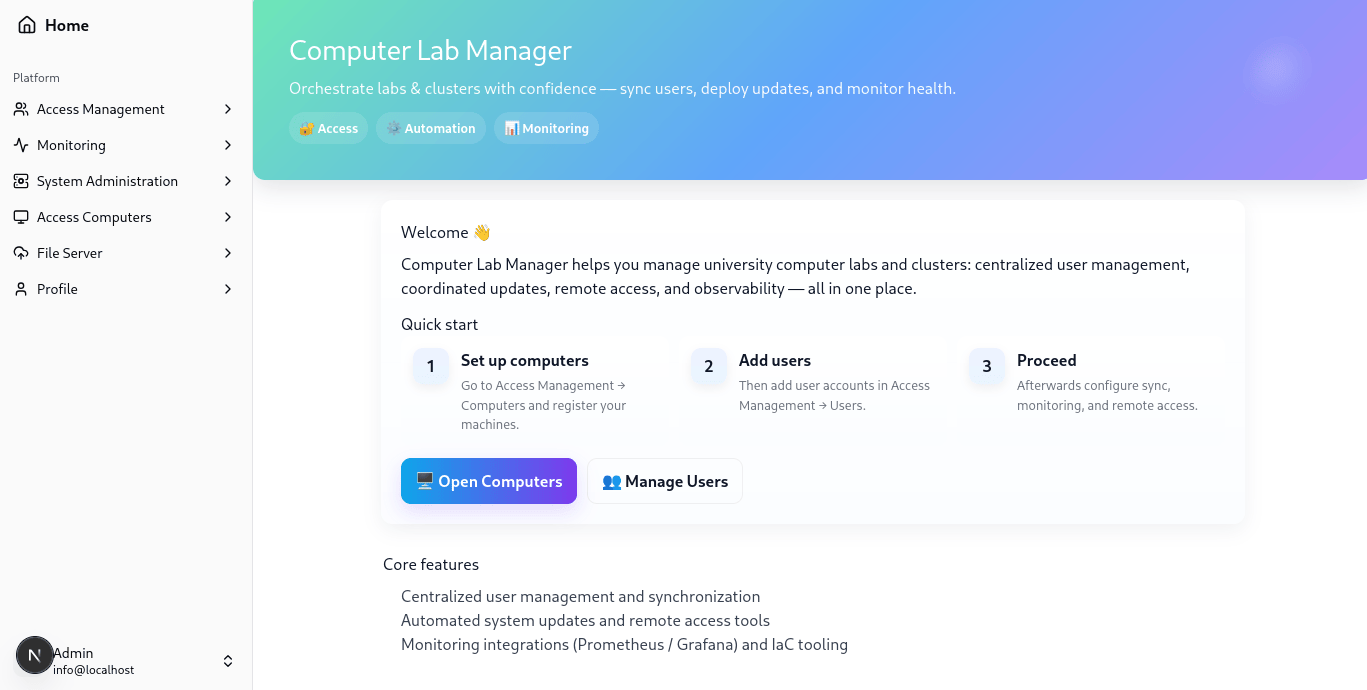
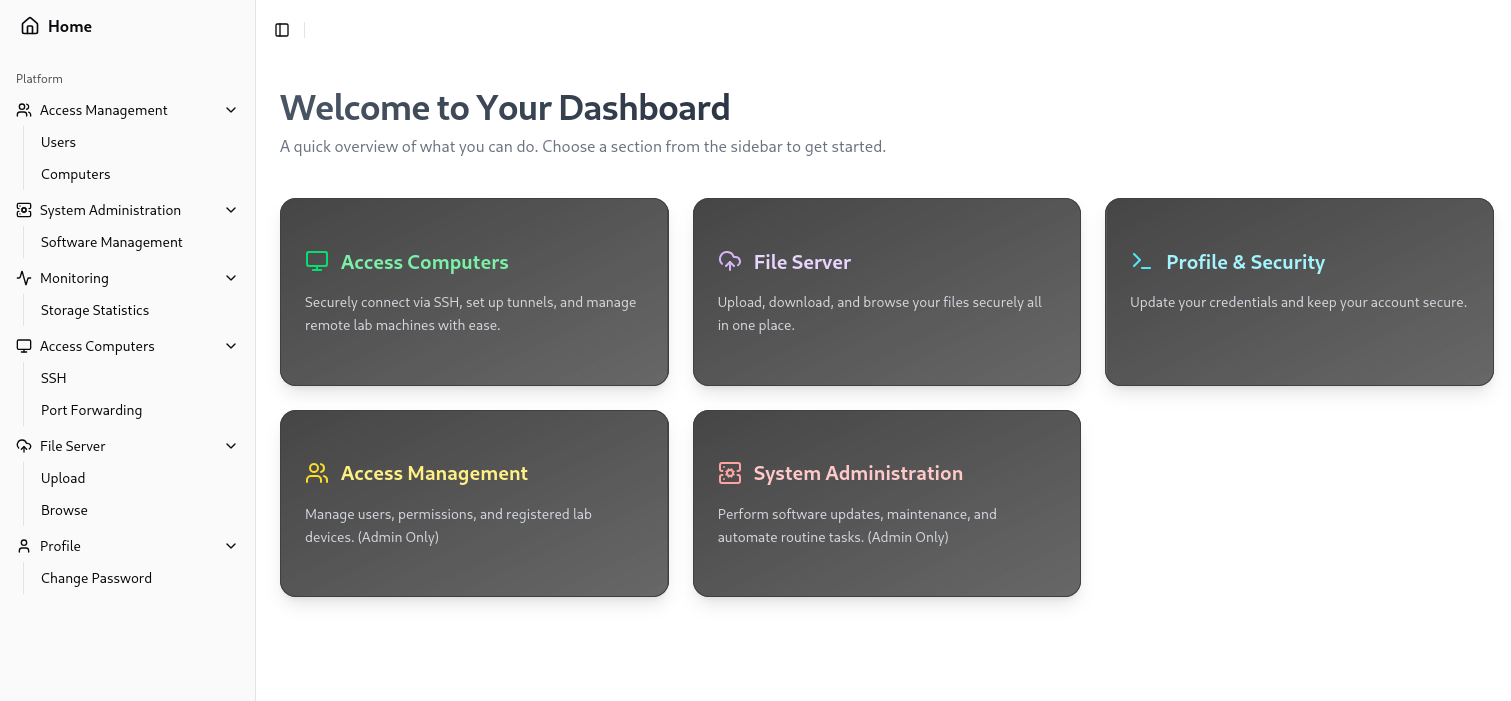
new default dashboard view

diff --git a/src/components/default-dashboard-view.tsx b/src/components/default-dashboard-view.tsx
@@ -1,102 +1,126 @@
 "use client";
 
-import { useHash } from "@/hooks/use-hash";
-import styles from "./default-dashboard-view.module.css";
+import { Card, CardContent } from "@/components/ui/card";
+import { Monitor, CloudUpload, Terminal, Users, ServerCog } from "lucide-react";
+import { motion } from "framer-motion";
 
-export default function DefaultDashboardView() {
-	const hash = useHash();
-	if (hash && hash.length != 0)
-		return null;
+export default function DashboardView() {
+  return (
+    <div className="p-6 space-y-10">
 
-	return (
-		<div className={styles.dlmRoot}>
-				<header className={styles.hero}>
-					<div className={styles.heroContent}>
-					<h1>Computer Lab Manager</h1>
-					<p className={styles.tagline}>
-						Orchestrate labs & clusters with confidence — sync users, deploy updates, and monitor health.
-					</p>
-					<div className={styles.badges}>
-						<span className={styles.badge}>🔐 Access</span>
-						<span className={styles.badge}>⚙ Automation</span>
-						<span className={styles.badge}>📊 Monitoring</span>
-					</div>
-				</div>
-				<div className={styles.heroDecor} aria-hidden />
-			</header>
+      {/* Header */}
+      <motion.div
+        initial={{ opacity: 0, y: -10 }}
+        animate={{ opacity: 1, y: 0 }}
+        transition={{ duration: 0.4 }}
+      >
+        <h1 className="text-4xl font-bold tracking-tight bg-gradient-to-r from-gray-600 to-gray-950 bg-clip-text text-transparent">
+          Welcome to Your Dashboard
+        </h1>
+        <p className="text-gray-500 mt-2 max-w-2xl">
+          A quick overview of what you can do. Choose a section from the sidebar to get started.
+        </p>
+      </motion.div>
 
-			<main className={styles.container}>
-				<section className={styles.introCard}>
-					<h2>Welcome 👋</h2>
-					<p>
-						Computer Lab Manager helps you manage university computer labs and clusters: centralized user
-						management, coordinated updates, remote access, and observability — all in one place.
-					</p>
+      {/* Feature Cards */}
+      <div className="grid grid-cols-1 md:grid-cols-2 xl:grid-cols-3 gap-6">
 
-					<div className={styles.quickStart}>
-						<h3>Quick start</h3>
-						<div className={styles.steps}>
-							<div className={styles.step}>
-								<div className={styles.stepIndex}>1</div>
-								<div>
-									<strong>Set up computers</strong>
-									<p className={styles.muted}>Go to Access Management → Computers and register your machines.</p>
-								</div>
-							</div>
+        {/* Access Computers */}
+        <motion.div
+          initial={{ opacity: 0, y: 20 }}
+          animate={{ opacity: 1, y: 0 }}
+          transition={{ delay: 0.1, duration: 0.4 }}
+        >
+          <Card className="flex flex-col h-full bg-gradient-to-br from-neutral-900/80 to-neutral-800/70 border border-neutral-700 rounded-2xl shadow-lg hover:shadow-xl transition">
+            <CardContent className="p-6 flex flex-col gap-4">
+              <div className="flex items-center gap-3">
+                <Monitor className="w-6 h-6 text-green-400" />
+                <h2 className="text-xl font-semibold text-green-300">Access Computers</h2>
+              </div>
+              <p className="text-gray-300 text-sm leading-relaxed">
+                Securely connect via SSH, set up tunnels, and manage remote lab machines with ease.
+              </p>
+            </CardContent>
+          </Card>
+        </motion.div>
 
-							<div className={styles.step}>
-								<div className={styles.stepIndex}>2</div>
-								<div>
-									<strong>Add users</strong>
-									<p className={styles.muted}>Then add user accounts in Access Management → Users.</p>
-								</div>
-							</div>
+        {/* File Server */}
+        <motion.div
+          initial={{ opacity: 0, y: 20 }}
+          animate={{ opacity: 1, y: 0 }}
+          transition={{ delay: 0.15, duration: 0.4 }}
+        >
+          <Card className="flex flex-col h-full bg-gradient-to-br from-neutral-900/80 to-neutral-800/70 border border-neutral-700 rounded-2xl shadow-lg hover:shadow-xl transition">
+            <CardContent className="p-6 flex flex-col gap-4">
+              <div className="flex items-center gap-3">
+                <CloudUpload className="w-6 h-6 text-purple-300" />
+                <h2 className="text-xl font-semibold text-purple-200">File Server</h2>
+              </div>
+              <p className="text-gray-300 text-sm leading-relaxed">
+                Upload, download, and browse your files securely all in one place.
+              </p>
+            </CardContent>
+          </Card>
+        </motion.div>
 
-							<div className={styles.step}>
-								<div className={styles.stepIndex}>3</div>
-								<div>
-									<strong>Proceed</strong>
-									<p className={styles.muted}>Afterwards configure sync, monitoring, and remote access.</p>
-								</div>
-							</div>
-						</div>
+        {/* Profile Settings */}
+        <motion.div
+          initial={{ opacity: 0, y: 20 }}
+          animate={{ opacity: 1, y: 0 }}
+          transition={{ delay: 0.2, duration: 0.4 }}
+        >
+          <Card className="flex flex-col h-full bg-gradient-to-br from-neutral-900/80 to-neutral-800/70 border border-neutral-700 rounded-2xl shadow-lg hover:shadow-xl transition">
+            <CardContent className="p-6 flex flex-col gap-4">
+              <div className="flex items-center gap-3">
+                <Terminal className="w-6 h-6 text-cyan-300" />
+                <h2 className="text-xl font-semibold text-cyan-200">Profile & Security</h2>
+              </div>
+              <p className="text-gray-300 text-sm leading-relaxed">
+                Update your credentials and keep your account secure.
+              </p>
+            </CardContent>
+          </Card>
+        </motion.div>
 
-						<div className={styles.actions}>
-							{/* Primary admin actions */}
-							<button
-								className={`${styles.btn} ${styles.btnPrimary}`}
-								onClick={() => {
-									// Admin computers page from adminNavMain
-									window.location.hash = "#admin-computers";
-								}}
-								aria-label="Open Computers"
-							>
-								🖥 Open Computers
-							</button>
+        {/* Admin: Access Management */}
+        <motion.div
+          initial={{ opacity: 0, y: 20 }}
+          animate={{ opacity: 1, y: 0 }}
+          transition={{ delay: 0.25, duration: 0.4 }}
+        >
+          <Card className="flex flex-col h-full bg-gradient-to-br from-neutral-900/80 to-neutral-800/70 border border-neutral-700 rounded-2xl shadow-lg hover:shadow-xl transition">
+            <CardContent className="p-6 flex flex-col gap-4">
+              <div className="flex items-center gap-3">
+                <Users className="w-6 h-6 text-yellow-300" />
+                <h2 className="text-xl font-semibold text-yellow-200">Access Management</h2>
+              </div>
+              <p className="text-gray-300 text-sm leading-relaxed">
+                Manage users, permissions, and registered lab devices. (Admin Only)
+              </p>
+            </CardContent>
+          </Card>
+        </motion.div>
 
-							<button
-								className={`${styles.btn} ${styles.btnGhost}`}
-								onClick={() => {
-									// Admin users page from adminNavMain
-									window.location.hash = "#admin-users";
-								}}
-								aria-label="Manage Users"
-							>
-								👥 Manage Users
-							</button>
-						</div>
-					</div>
-				</section>
+        {/* Admin: System Administration */}
+        <motion.div
+          initial={{ opacity: 0, y: 20 }}
+          animate={{ opacity: 1, y: 0 }}
+          transition={{ delay: 0.3, duration: 0.4 }}
+        >
+          <Card className="flex flex-col h-full bg-gradient-to-br from-neutral-900/80 to-neutral-800/70 border border-neutral-700 rounded-2xl shadow-lg hover:shadow-xl transition">
+            <CardContent className="p-6 flex flex-col gap-4">
+              <div className="flex items-center gap-3">
+                <ServerCog className="w-6 h-6 text-red-300" />
+                <h2 className="text-xl font-semibold text-red-200">System Administration</h2>
+              </div>
+              <p className="text-gray-300 text-sm leading-relaxed">
+                Perform software updates, maintenance, and automate routine tasks. (Admin Only)
+              </p>
+            </CardContent>
+          </Card>
+        </motion.div>
 
-				<section className={styles.features}>
-					<h3><strong>&#10133;{' '} Core features</strong></h3>
-					<ul>
-						<li>&#9989;{' '} Centralized <strong>user management</strong> and synchronization</li>
-						<li>&#9989;{' '} Automated system updates and <strong>remote access tools</strong></li>
-						<li>&#9989;{' '} <strong>Monitoring</strong> system storage statistics</li>
-					</ul>
-				</section>
-			</main>
-		</div>
-	);
+      </div>
+    </div>
+  );
 }
